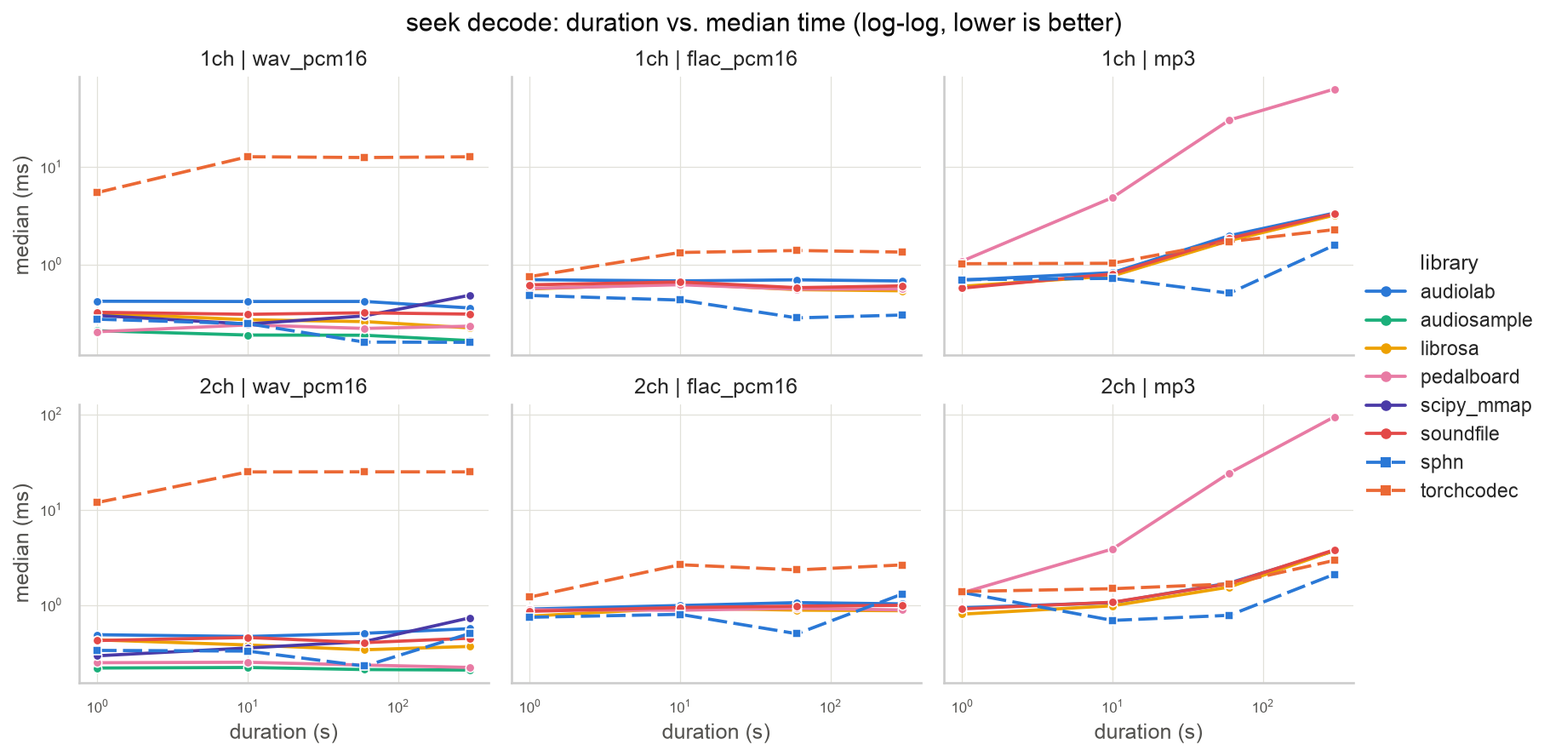
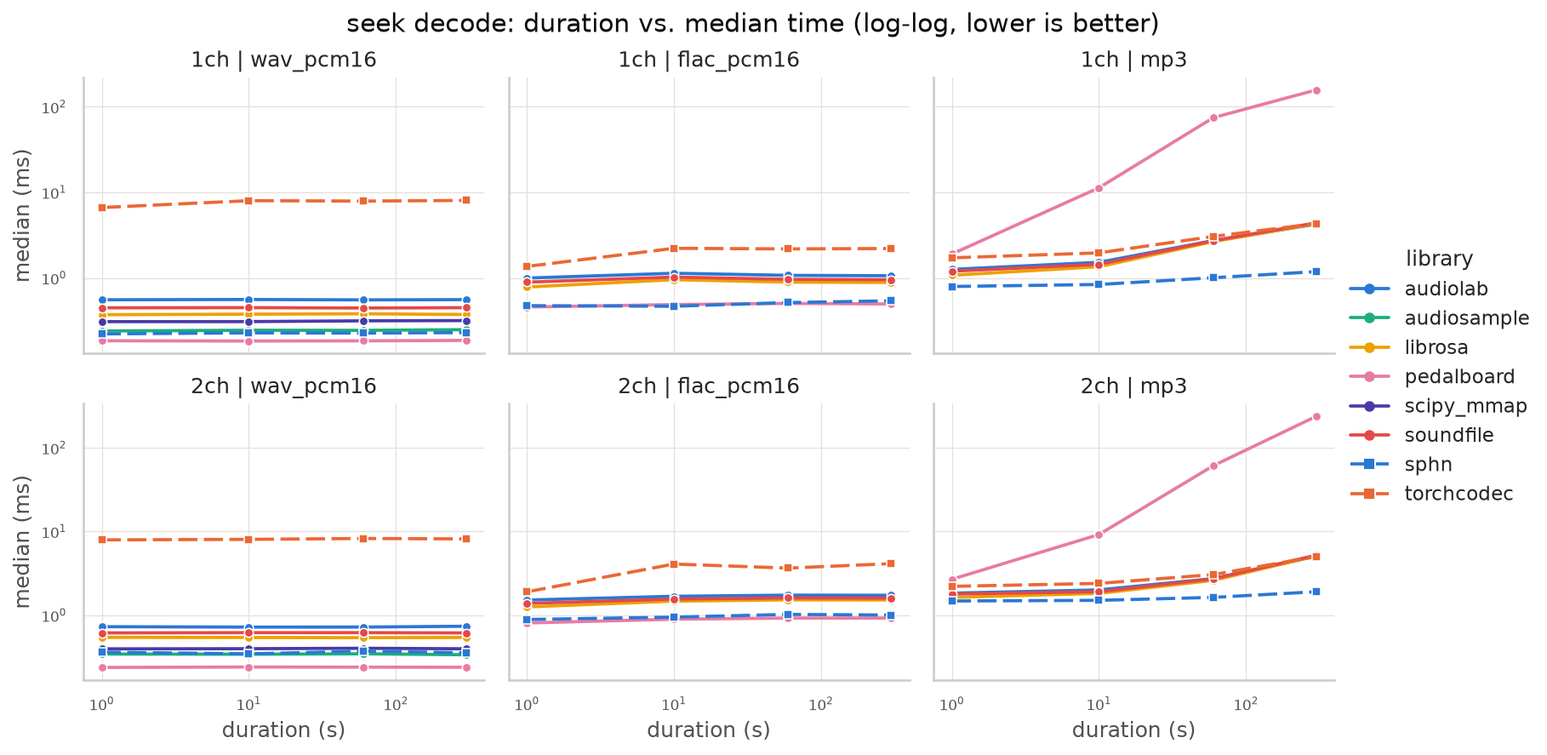
new plots

diff --git a/results/report.md b/results/report.md
@@ -6,12 +6,12 @@ Timings below are wall-clock, warm-page-cache decodes of a locally generated **s
 
 | Field | Value |
 | --- | --- |
-| OS | macOS-26.5.1-arm64-arm-64bit |
-| Machine | arm64 |
-| Python | 3.12.11 |
-| PyTorch | 2.14.0 |
-| FFmpeg | ffmpeg version 8.1.1 Copyright (c) 2000-2026 the FFmpeg developers |
-| DYLD_FALLBACK_LIBRARY_PATH | /opt/homebrew/lib |
+| OS | Linux-6.8.0-136-generic-x86_64-with-glibc2.39 |
+| Machine | x86_64 |
+| Python | 3.12.3 |
+| PyTorch | 2.14.0+cu130 |
+| FFmpeg | ffmpeg version n8.0.1-48-g0592be14ff-20260116 Copyright (c) 2000-2025 the FFmpeg developers |
+| DYLD_FALLBACK_LIBRARY_PATH | - |
 
 ## Libraries
 
@@ -23,7 +23,7 @@ Timings below are wall-clock, warm-page-cache decodes of a locally generated **s
 | scipy_mmap | 1.18.1 | yes | yes | WAV only, memory-mapped; scipy's mmap mode cannot open 24-bit ('3-byte container') WAV, which surfaces as a decode error for that subtype | - |
 | audioread | 3.1.0 | yes | no | full-file only, no seek API; audioread always yields 16-bit PCM buffers, so it cannot pass the exact gate for 24-bit or float32 WAV sources | - |
 | pedalboard | 0.9.25 | yes | yes | - | - |
-| torchcodec | 0.16.0 | yes | yes | imports cleanly even when its native FFmpeg bindings can't load; only the decode smoke test below catches that (see docs/refactor-design.md) | - |
+| torchcodec | 0.16.0+cu130 | yes | yes | imports cleanly even when its native FFmpeg bindings can't load; only the decode smoke test below catches that (see docs/refactor-design.md) | - |
 | audiolab | 0.5.2 | yes | yes | - | - |
 | audiosample | 2.2.12 | yes | yes | integer-PCM WAV only: float WAV, FLAC and MP3 go through its PyAV path, which is incompatible with PyAV 18 (Flags.FAST_SEEK) | - |
 | sphn | 0.2.1 | yes | yes | MP3 decode returns a different frame count than soundfile's reference (decoder-delay disagreement); graded by the relaxed MP3 gate | - |
@@ -34,79 +34,79 @@ Timings below are wall-clock, warm-page-cache decodes of a locally generated **s
 
 | Duration (s) | Channels | soundfile | librosa | scipy | scipy_mmap | audioread | pedalboard | torchcodec | audiolab | audiosample | sphn |
 | --- | --- | --- | --- | --- | --- | --- | --- | --- | --- | --- | --- |
-| 1 | 1 | 0.25 ms [0.21–0.28] | 0.32 ms [0.21–5.76] | 0.19 ms [0.14–0.42] | 0.33 ms [0.25–6.19] | 0.34 ms [0.25–7.13] | 0.22 ms [0.17–0.52] | 5.63 ms [5.51–5.91] | 0.46 ms [0.37–0.63] | 0.14 ms [0.12–3.45] | 0.37 ms [0.19–0.82] |
-| 1 | 2 | 0.35 ms [0.31–0.42] | 0.39 ms [0.33–0.44] | 0.25 ms [0.20–0.28] | 0.31 ms [0.26–4.72] | 0.40 ms [0.36–0.47] | 0.25 ms [0.22–0.31] | 12.24 ms [10.58–62.33] | 0.51 ms [0.44–0.57] | 0.24 ms [0.19–0.27] | 0.35 ms [0.31–0.41] |
-| 10 | 1 | 0.89 ms [0.84–1.02] | 0.93 ms [0.88–0.98] | 0.45 ms [0.41–0.77] | 0.44 ms [0.40–5.16] | 1.47 ms [1.40–1.56] | 0.52 ms [0.47–0.57] | 13.28 ms [13.14–13.74] | 1.35 ms [1.21–1.43] | 0.40 ms [0.36–0.54] | 1.71 ms [1.24–2.83] |
-| 10 | 2 | 1.89 ms [1.79–2.22] | 1.90 ms [1.82–2.22] | 1.02 ms [0.93–3.86] | 1.04 ms [0.99–6.19] | 2.73 ms [2.69–3.07] | 0.86 ms [0.79–0.94] | 26.04 ms [25.72–28.64] | 2.33 ms [2.24–2.81] | 0.94 ms [0.87–1.28] | 2.43 ms [2.23–2.49] |
-| 60 | 1 | 4.43 ms [4.36–4.66] | 4.47 ms [4.31–4.76] | 2.04 ms [1.99–6.92] | 1.65 ms [1.55–5.89] | 9.11 ms [8.03–11.15] | 2.19 ms [2.03–2.30] | 15.84 ms [15.45–19.90] | 6.33 ms [5.85–10.65] | 1.77 ms [1.74–4.16] | 6.96 ms [6.33–9.33] |
-| 60 | 2 | 9.97 ms [9.88–11.43] | 9.92 ms [9.80–12.78] | 5.31 ms [5.08–7.60] | 4.44 ms [4.34–8.97] | 15.87 ms [15.42–18.55] | 4.39 ms [4.12–4.55] | 31.15 ms [29.75–33.86] | 12.30 ms [12.08–17.59] | 5.09 ms [4.84–12.29] | 14.55 ms [12.26–54.59] |
-| 300 | 1 | 21.72 ms [20.75–24.79] | 21.15 ms [20.68–60.01] | 9.18 ms [8.81–10.64] | 7.04 ms [6.81–14.72] | 40.19 ms [39.19–44.21] | 10.27 ms [9.68–23.35] | 28.59 ms [27.98–33.72] | 27.94 ms [27.68–29.95] | 9.04 ms [8.44–40.84] | 34.56 ms [32.59–51.92] |
-| 300 | 2 | 52.07 ms [49.45–60.07] | 49.59 ms [49.06–80.34] | 25.67 ms [24.92–48.44] | 22.97 ms [21.01–29.51] | 76.94 ms [75.94–84.07] | 21.56 ms [20.79–32.14] | 52.37 ms [50.85–55.94] | 60.20 ms [58.03–124.35] | 23.95 ms [23.31–26.63] | 144.38 ms [132.87–162.02] |
+| 1 | 1 | 0.37 ms [0.36–0.41] | 0.37 ms [0.36–0.38] | 0.23 ms [0.23–0.25] | 0.30 ms [0.29–0.32] | 0.40 ms [0.38–0.41] | 0.18 ms [0.18–0.20] | 6.67 ms [6.62–6.84] | 0.58 ms [0.57–0.60] | 0.22 ms [0.22–0.23] | 0.24 ms [0.24–0.25] |
+| 1 | 2 | 0.55 ms [0.53–0.72] | 0.54 ms [0.53–0.55] | 0.33 ms [0.32–0.34] | 0.39 ms [0.38–0.40] | 0.54 ms [0.52–0.58] | 0.23 ms [0.23–0.24] | 7.91 ms [7.80–8.05] | 0.76 ms [0.72–0.79] | 0.32 ms [0.32–0.33] | 0.39 ms [0.38–0.40] |
+| 10 | 1 | 1.43 ms [1.39–1.47] | 1.44 ms [1.40–1.46] | 0.77 ms [0.76–0.81] | 0.78 ms [0.76–0.83] | 2.15 ms [2.12–2.21] | 0.65 ms [0.64–0.67] | 9.62 ms [9.52–9.72] | 2.05 ms [2.01–2.10] | 0.62 ms [0.61–0.64] | 1.66 ms [1.65–1.68] |
+| 10 | 2 | 3.29 ms [3.27–3.36] | 3.31 ms [3.21–3.36] | 1.76 ms [1.75–1.82] | 1.77 ms [1.75–1.82] | 3.73 ms [3.71–3.76] | 1.25 ms [1.24–1.28] | 11.24 ms [11.15–11.41] | 3.80 ms [3.75–3.87] | 1.58 ms [1.57–1.61] | 3.00 ms [2.99–3.10] |
+| 60 | 1 | 7.21 ms [7.14–7.29] | 7.27 ms [7.15–7.38] | 3.76 ms [3.68–3.87] | 3.66 ms [3.64–3.76] | 12.05 ms [11.97–12.12] | 3.44 ms [3.43–3.56] | 18.26 ms [18.05–18.49] | 9.59 ms [9.53–9.70] | 2.90 ms [2.89–2.95] | 9.51 ms [9.48–9.54] |
+| 60 | 2 | 18.93 ms [18.82–19.11] | 19.07 ms [18.86–19.25] | 10.96 ms [10.74–11.06] | 10.76 ms [10.46–10.82] | 22.28 ms [22.21–22.35] | 7.03 ms [6.92–7.27] | 29.04 ms [28.85–29.98] | 19.61 ms [19.44–19.75] | 8.88 ms [8.85–8.93] | 19.37 ms [19.26–19.49] |
+| 300 | 1 | 43.79 ms [43.36–44.18] | 42.94 ms [42.81–43.22] | 31.73 ms [31.67–31.86] | 28.15 ms [28.10–28.30] | 72.79 ms [72.50–73.16] | 24.62 ms [24.13–24.82] | 86.97 ms [78.33–100.90] | 53.61 ms [52.81–53.91] | 20.40 ms [19.93–20.66] | 78.93 ms [78.67–79.12] |
+| 300 | 2 | 125.49 ms [125.12–125.78] | 125.29 ms [124.78–125.97] | 108.14 ms [107.82–108.62] | 95.08 ms [94.88–97.00] | 168.24 ms [167.83–169.30] | 51.45 ms [51.32–51.58] | 154.27 ms [149.14–166.33] | 111.29 ms [110.72–111.67] | 98.58 ms [98.21–98.87] | 150.91 ms [150.53–151.27] |
 
 ## wav_pcm16 / seek
 
 | Duration (s) | Channels | soundfile | librosa | scipy | scipy_mmap | audioread | pedalboard | torchcodec | audiolab | audiosample | sphn |
 | --- | --- | --- | --- | --- | --- | --- | --- | --- | --- | --- | --- |
-| 1 | 1 | 0.32 ms [0.27–0.41] | 0.32 ms [0.25–1.80] | unsupported | 0.30 ms [0.23–9.04] | unsupported | 0.20 ms [0.16–0.26] | 5.46 ms [5.41–5.56] | 0.42 ms [0.33–2.90] | 0.21 ms [0.14–0.49] | 0.27 ms [0.24–0.40] |
-| 1 | 2 | 0.42 ms [0.34–0.48] | 0.43 ms [0.31–2.54] | unsupported | 0.29 ms [0.25–4.43] | unsupported | 0.25 ms [0.21–0.31] | 11.91 ms [11.26–16.18] | 0.49 ms [0.42–0.58] | 0.22 ms [0.18–0.28] | 0.33 ms [0.33–0.44] |
-| 10 | 1 | 0.31 ms [0.24–0.39] | 0.27 ms [0.22–0.30] | unsupported | 0.24 ms [0.23–5.32] | unsupported | 0.24 ms [0.18–0.25] | 12.73 ms [12.66–12.91] | 0.42 ms [0.35–3.00] | 0.19 ms [0.14–0.23] | 0.25 ms [0.23–0.32] |
-| 10 | 2 | 0.46 ms [0.42–0.91] | 0.38 ms [0.33–0.44] | unsupported | 0.35 ms [0.26–0.57] | unsupported | 0.25 ms [0.20–0.30] | 24.93 ms [24.66–28.50] | 0.47 ms [0.39–0.55] | 0.22 ms [0.19–0.27] | 0.33 ms [0.31–0.36] |
-| 60 | 1 | 0.32 ms [0.28–0.37] | 0.26 ms [0.22–0.34] | unsupported | 0.30 ms [0.23–4.62] | unsupported | 0.22 ms [0.19–0.30] | 12.50 ms [12.42–12.84] | 0.42 ms [0.34–0.71] | 0.19 ms [0.14–0.48] | 0.16 ms [0.13–0.19] |
-| 60 | 2 | 0.40 ms [0.34–0.46] | 0.34 ms [0.31–0.71] | unsupported | 0.41 ms [0.39–4.99] | unsupported | 0.23 ms [0.21–0.29] | 24.99 ms [24.71–26.78] | 0.51 ms [0.44–0.60] | 0.21 ms [0.19–0.26] | 0.23 ms [0.19–0.86] |
-| 300 | 1 | 0.31 ms [0.27–0.67] | 0.22 ms [0.21–0.28] | unsupported | 0.48 ms [0.40–2.68] | unsupported | 0.23 ms [0.20–0.34] | 12.72 ms [12.59–13.24] | 0.36 ms [0.31–0.74] | 0.17 ms [0.14–0.21] | 0.16 ms [0.13–0.30] |
-| 300 | 2 | 0.45 ms [0.42–0.55] | 0.37 ms [0.33–0.42] | unsupported | 0.73 ms [0.63–4.32] | unsupported | 0.22 ms [0.20–0.28] | 24.96 ms [24.55–29.08] | 0.57 ms [0.50–1.69] | 0.21 ms [0.19–0.25] | 0.50 ms [0.42–0.55] |
+| 1 | 1 | 0.45 ms [0.43–0.56] | 0.37 ms [0.35–0.39] | unsupported | 0.31 ms [0.30–0.31] | unsupported | 0.18 ms [0.18–0.19] | 6.65 ms [6.52–6.74] | 0.56 ms [0.54–0.57] | 0.24 ms [0.24–0.24] | 0.22 ms [0.22–0.23] |
+| 1 | 2 | 0.61 ms [0.60–0.64] | 0.54 ms [0.54–0.56] | unsupported | 0.40 ms [0.39–0.42] | unsupported | 0.24 ms [0.23–0.25] | 7.95 ms [7.85–8.14] | 0.73 ms [0.72–0.77] | 0.34 ms [0.33–0.35] | 0.36 ms [0.35–0.41] |
+| 10 | 1 | 0.45 ms [0.43–0.54] | 0.38 ms [0.36–0.38] | unsupported | 0.31 ms [0.31–0.33] | unsupported | 0.18 ms [0.18–0.19] | 8.00 ms [7.87–8.12] | 0.56 ms [0.55–0.58] | 0.24 ms [0.24–0.25] | 0.23 ms [0.23–0.24] |
+| 10 | 2 | 0.62 ms [0.60–0.64] | 0.54 ms [0.53–0.56] | unsupported | 0.40 ms [0.38–0.42] | unsupported | 0.24 ms [0.24–0.25] | 8.07 ms [7.97–8.16] | 0.72 ms [0.71–0.74] | 0.34 ms [0.33–0.35] | 0.35 ms [0.34–0.35] |
+| 60 | 1 | 0.44 ms [0.44–0.59] | 0.38 ms [0.36–0.39] | unsupported | 0.32 ms [0.30–0.33] | unsupported | 0.18 ms [0.18–0.19] | 7.91 ms [7.81–8.03] | 0.55 ms [0.55–0.56] | 0.24 ms [0.24–0.25] | 0.23 ms [0.22–0.23] |
+| 60 | 2 | 0.62 ms [0.59–0.63] | 0.54 ms [0.53–0.55] | unsupported | 0.40 ms [0.39–0.41] | unsupported | 0.24 ms [0.24–0.25] | 8.26 ms [8.20–8.32] | 0.72 ms [0.70–0.76] | 0.35 ms [0.34–0.35] | 0.37 ms [0.36–0.44] |
+| 300 | 1 | 0.45 ms [0.44–0.47] | 0.37 ms [0.36–0.39] | unsupported | 0.32 ms [0.31–0.33] | unsupported | 0.19 ms [0.18–0.19] | 8.05 ms [7.99–8.11] | 0.56 ms [0.53–0.60] | 0.25 ms [0.25–0.27] | 0.23 ms [0.22–0.24] |
+| 300 | 2 | 0.61 ms [0.61–0.63] | 0.54 ms [0.54–0.56] | unsupported | 0.40 ms [0.39–0.42] | unsupported | 0.24 ms [0.23–0.24] | 8.17 ms [8.04–8.23] | 0.74 ms [0.70–0.75] | 0.34 ms [0.32–0.35] | 0.36 ms [0.35–0.36] |
 
 ## flac_pcm16 / full
 
 | Duration (s) | Channels | soundfile | librosa | scipy | scipy_mmap | audioread | pedalboard | torchcodec | audiolab | audiosample | sphn |
 | --- | --- | --- | --- | --- | --- | --- | --- | --- | --- | --- | --- |
-| 1 | 1 | 0.49 ms [0.47–0.59] | 0.57 ms [0.52–0.88] | unsupported | unsupported | 1.62 ms [1.57–11.13] | 0.57 ms [0.50–3.29] | 0.81 ms [0.77–0.93] | 0.68 ms [0.64–0.76] | unsupported | 0.44 ms [0.39–0.55] |
-| 1 | 2 | 0.79 ms [0.76–0.94] | 0.80 ms [0.77–1.02] | unsupported | unsupported | 2.09 ms [2.01–2.22] | 0.87 ms [0.78–1.20] | 1.40 ms [1.27–1.71] | 0.92 ms [0.87–6.04] | unsupported | 0.75 ms [0.67–0.87] |
-| 10 | 1 | 3.39 ms [3.35–3.48] | 3.36 ms [3.31–3.42] | unsupported | unsupported | 5.58 ms [5.48–6.32] | 2.81 ms [2.71–2.91] | 3.89 ms [3.80–4.04] | 3.80 ms [3.75–3.91] | unsupported | 3.41 ms [2.98–4.03] |
-| 10 | 2 | 5.93 ms [5.83–6.37] | 5.92 ms [5.82–6.35] | unsupported | unsupported | 10.38 ms [10.21–11.97] | 5.56 ms [5.48–5.85] | 6.96 ms [6.82–7.63] | 6.48 ms [6.27–9.38] | unsupported | 5.46 ms [5.39–6.04] |
-| 60 | 1 | 19.28 ms [19.20–19.74] | 19.24 ms [19.17–19.63] | unsupported | unsupported | 27.78 ms [27.24–30.16] | 15.08 ms [14.90–15.54] | 20.72 ms [20.58–22.51] | 21.00 ms [20.89–21.53] | unsupported | 11.45 ms [9.94–18.88] |
-| 60 | 2 | 34.22 ms [33.91–36.96] | 33.93 ms [33.70–57.90] | unsupported | unsupported | 56.94 ms [55.78–60.13] | 31.80 ms [31.68–60.10] | 39.57 ms [38.65–46.05] | 37.34 ms [36.50–45.90] | unsupported | 23.76 ms [21.36–35.99] |
-| 300 | 1 | 96.45 ms [95.28–173.07] | 95.54 ms [95.35–173.85] | unsupported | unsupported | 132.58 ms [130.75–138.88] | 74.34 ms [73.88–80.10] | 102.54 ms [100.46–111.60] | 105.38 ms [103.47–159.16] | unsupported | 61.62 ms [60.16–69.05] |
-| 300 | 2 | 173.89 ms [168.36–251.41] | 172.43 ms [168.80–213.40] | unsupported | unsupported | 279.09 ms [273.45–328.69] | 158.40 ms [156.45–234.69] | 196.09 ms [192.39–211.79] | 183.75 ms [179.62–189.35] | unsupported | 323.73 ms [229.49–406.67] |
+| 1 | 1 | 0.81 ms [0.81–0.84] | 0.78 ms [0.77–0.79] | unsupported | unsupported | 18.02 ms [17.12–18.80] | 0.45 ms [0.45–0.46] | 1.39 ms [1.35–1.41] | 1.03 ms [1.02–1.04] | unsupported | 0.50 ms [0.49–0.51] |
+| 1 | 2 | 1.31 ms [1.30–1.60] | 1.26 ms [1.25–1.27] | unsupported | unsupported | 18.50 ms [17.86–19.70] | 0.80 ms [0.79–0.81] | 1.92 ms [1.87–1.93] | 1.55 ms [1.51–1.56] | unsupported | 0.92 ms [0.90–0.92] |
+| 10 | 1 | 5.36 ms [5.33–5.41] | 5.36 ms [5.33–5.40] | unsupported | unsupported | 21.54 ms [20.66–22.48] | 3.31 ms [3.27–3.36] | 7.04 ms [7.02–7.11] | 6.06 ms [6.03–6.09] | unsupported | 3.86 ms [3.84–3.88] |
+| 10 | 2 | 10.52 ms [10.47–10.79] | 10.45 ms [10.42–10.51] | unsupported | unsupported | 25.75 ms [24.49–26.48] | 6.89 ms [6.87–7.01] | 12.09 ms [12.05–12.17] | 11.09 ms [11.07–11.11] | unsupported | 7.68 ms [7.67–7.88] |
+| 60 | 1 | 30.72 ms [30.66–30.98] | 30.73 ms [30.64–31.02] | unsupported | unsupported | 34.82 ms [33.19–37.59] | 19.39 ms [19.30–19.50] | 37.67 ms [37.54–37.86] | 33.43 ms [33.28–33.50] | unsupported | 22.41 ms [22.36–22.50] |
+| 60 | 2 | 62.08 ms [61.94–62.21] | 62.04 ms [61.89–62.28] | unsupported | unsupported | 51.00 ms [49.76–52.40] | 40.82 ms [40.63–41.10] | 67.39 ms [67.28–67.69] | 63.23 ms [63.16–63.49] | unsupported | 47.25 ms [47.21–47.37] |
+| 300 | 1 | 161.29 ms [160.01–161.59] | 160.71 ms [159.83–161.84] | unsupported | unsupported | 109.47 ms [107.12–110.97] | 104.69 ms [104.43–105.07] | 197.89 ms [197.21–198.05] | 172.76 ms [172.60–173.32] | unsupported | 144.83 ms [144.76–145.35] |
+| 300 | 2 | 340.71 ms [340.22–341.04] | 340.72 ms [340.24–341.14] | unsupported | unsupported | 230.96 ms [228.12–233.29] | 221.15 ms [220.64–221.62] | 364.86 ms [364.24–365.40] | 328.66 ms [328.45–329.13] | unsupported | 291.70 ms [291.45–292.51] |
 
 ## flac_pcm16 / seek
 
 | Duration (s) | Channels | soundfile | librosa | scipy | scipy_mmap | audioread | pedalboard | torchcodec | audiolab | audiosample | sphn |
 | --- | --- | --- | --- | --- | --- | --- | --- | --- | --- | --- | --- |
-| 1 | 1 | 0.62 ms [0.55–0.91] | 0.56 ms [0.47–0.87] | unsupported | unsupported | unsupported | 0.57 ms [0.52–4.58] | 0.75 ms [0.67–0.85] | 0.70 ms [0.61–10.68] | unsupported | 0.48 ms [0.43–0.69] |
-| 1 | 2 | 0.86 ms [0.78–1.52] | 0.77 ms [0.74–0.82] | unsupported | unsupported | unsupported | 0.89 ms [0.80–0.94] | 1.21 ms [1.13–1.82] | 0.91 ms [0.87–0.97] | unsupported | 0.75 ms [0.67–1.07] |
-| 10 | 1 | 0.66 ms [0.57–0.81] | 0.63 ms [0.59–0.69] | unsupported | unsupported | unsupported | 0.62 ms [0.57–0.82] | 1.33 ms [1.25–1.42] | 0.68 ms [0.66–0.74] | unsupported | 0.43 ms [0.39–0.80] |
-| 10 | 2 | 0.94 ms [0.85–1.05] | 0.93 ms [0.87–1.03] | unsupported | unsupported | unsupported | 0.88 ms [0.82–0.91] | 2.65 ms [2.56–2.83] | 0.99 ms [0.96–1.08] | unsupported | 0.80 ms [0.72–0.96] |
-| 60 | 1 | 0.58 ms [0.55–1.41] | 0.55 ms [0.52–0.60] | unsupported | unsupported | unsupported | 0.56 ms [0.54–0.62] | 1.39 ms [1.24–1.58] | 0.69 ms [0.63–1.06] | unsupported | 0.28 ms [0.27–0.32] |
-| 60 | 2 | 0.97 ms [0.93–1.06] | 0.88 ms [0.85–1.23] | unsupported | unsupported | unsupported | 0.93 ms [0.86–2.53] | 2.34 ms [2.21–4.57] | 1.06 ms [0.98–1.15] | unsupported | 0.50 ms [0.49–0.71] |
-| 300 | 1 | 0.60 ms [0.56–1.11] | 0.54 ms [0.49–0.61] | unsupported | unsupported | unsupported | 0.56 ms [0.50–0.70] | 1.34 ms [1.28–1.51] | 0.68 ms [0.61–0.89] | unsupported | 0.30 ms [0.28–0.56] |
-| 300 | 2 | 0.99 ms [0.95–1.11] | 0.87 ms [0.85–0.93] | unsupported | unsupported | unsupported | 0.89 ms [0.84–3.53] | 2.64 ms [2.57–3.00] | 1.03 ms [0.98–1.53] | unsupported | 1.30 ms [0.96–1.54] |
+| 1 | 1 | 0.89 ms [0.88–0.92] | 0.78 ms [0.77–0.88] | unsupported | unsupported | unsupported | 0.46 ms [0.45–0.46] | 1.36 ms [1.35–1.47] | 1.00 ms [0.97–1.01] | unsupported | 0.47 ms [0.47–0.49] |
+| 1 | 2 | 1.39 ms [1.36–1.50] | 1.26 ms [1.24–1.26] | unsupported | unsupported | unsupported | 0.81 ms [0.80–0.82] | 1.90 ms [1.86–1.93] | 1.52 ms [1.49–1.53] | unsupported | 0.89 ms [0.88–0.90] |
+| 10 | 1 | 1.02 ms [1.01–1.03] | 0.95 ms [0.94–0.96] | unsupported | unsupported | unsupported | 0.49 ms [0.48–0.50] | 2.22 ms [2.18–2.23] | 1.13 ms [1.11–1.14] | unsupported | 0.47 ms [0.46–0.47] |
+| 10 | 2 | 1.56 ms [1.55–1.58] | 1.47 ms [1.47–1.49] | unsupported | unsupported | unsupported | 0.90 ms [0.88–0.90] | 4.09 ms [4.04–4.12] | 1.69 ms [1.65–1.71] | unsupported | 0.95 ms [0.95–0.96] |
+| 60 | 1 | 0.96 ms [0.95–0.99] | 0.89 ms [0.88–0.90] | unsupported | unsupported | unsupported | 0.50 ms [0.50–0.54] | 2.18 ms [2.13–2.20] | 1.07 ms [1.07–1.09] | unsupported | 0.52 ms [0.51–0.53] |
+| 60 | 2 | 1.61 ms [1.58–1.62] | 1.53 ms [1.51–1.55] | unsupported | unsupported | unsupported | 0.93 ms [0.91–0.94] | 3.66 ms [3.60–3.70] | 1.74 ms [1.69–1.75] | unsupported | 1.02 ms [1.01–1.04] |
+| 300 | 1 | 0.95 ms [0.94–0.98] | 0.88 ms [0.88–0.90] | unsupported | unsupported | unsupported | 0.50 ms [0.49–0.50] | 2.21 ms [2.16–2.25] | 1.06 ms [1.04–1.09] | unsupported | 0.54 ms [0.53–0.57] |
+| 300 | 2 | 1.60 ms [1.60–1.64] | 1.52 ms [1.50–1.53] | unsupported | unsupported | unsupported | 0.93 ms [0.92–0.94] | 4.14 ms [4.12–4.16] | 1.73 ms [1.69–1.74] | unsupported | 1.01 ms [1.00–1.02] |
 
 ## mp3 / full
 
 | Duration (s) | Channels | soundfile | librosa | scipy | scipy_mmap | audioread | pedalboard | torchcodec | audiolab | audiosample | sphn |
 | --- | --- | --- | --- | --- | --- | --- | --- | --- | --- | --- | --- |
-| 1 | 1 | 0.50 ms [0.48–0.61] | 0.54 ms [0.49–0.61] | unsupported | unsupported | 1.47 ms [1.30–1.85] | 1.08 ms [0.99–1.13] | 1.10 ms [1.01–1.16] | 0.65 ms [0.60–0.81] | unsupported | 0.94 ms [0.71–1.33] |
-| 1 | 2 | 0.80 ms [0.77–1.85] | 0.82 ms [0.77–0.92] | unsupported | unsupported | 2.04 ms [1.97–2.14] | 1.35 ms [1.30–1.41] | 1.54 ms [1.40–2.36] | 1.00 ms [0.92–1.50] | unsupported | 1.25 ms [1.22–1.68] |
-| 10 | 1 | 3.33 ms [3.24–5.60] | 3.29 ms [3.21–4.09] | unsupported | unsupported | 8.27 ms [8.13–10.57] | 7.21 ms [7.10–8.06] | 5.08 ms [5.01–5.19] | 3.93 ms [3.84–4.38] | unsupported | 5.67 ms [4.75–7.88] |
-| 10 | 2 | 6.73 ms [6.09–80.64] | 6.01 ms [5.91–6.71] | unsupported | unsupported | 13.74 ms [13.45–17.92] | 9.98 ms [9.94–10.17] | 7.81 ms [7.68–10.18] | 6.77 ms [6.62–7.59] | unsupported | 5.89 ms [5.85–14.59] |
-| 60 | 1 | 18.35 ms [18.24–21.20] | 18.30 ms [18.21–18.73] | unsupported | unsupported | 46.71 ms [46.20–57.23] | 41.29 ms [41.14–45.07] | 28.73 ms [27.63–63.74] | 21.75 ms [21.24–23.99] | unsupported | 22.27 ms [20.34–26.86] |
-| 60 | 2 | 34.38 ms [33.87–35.21] | 33.92 ms [33.87–35.62] | unsupported | unsupported | 78.10 ms [76.90–85.78] | 58.34 ms [58.08–61.55] | 43.96 ms [43.25–48.91] | 39.45 ms [38.08–41.77] | unsupported | 38.73 ms [37.66–58.05] |
-| 300 | 1 | 91.22 ms [90.60–98.24] | 91.39 ms [90.47–100.08] | unsupported | unsupported | 229.67 ms [226.52–259.55] | 206.26 ms [204.01–291.00] | 138.99 ms [135.15–149.50] | 105.92 ms [104.92–265.71] | unsupported | 103.61 ms [101.26–128.33] |
-| 300 | 2 | 176.60 ms [169.37–194.68] | 171.90 ms [169.10–184.41] | unsupported | unsupported | 387.96 ms [383.58–412.56] | 294.20 ms [288.69–367.46] | 221.85 ms [215.43–245.76] | 190.97 ms [187.48–206.25] | unsupported | 397.54 ms [345.70–456.88] |
+| 1 | 1 | 1.11 ms [1.08–1.17] | 1.07 ms [1.07–1.09] | unsupported | unsupported | 18.65 ms [17.41–19.00] | 1.93 ms [1.90–1.95] | 1.76 ms [1.75–1.79] | 1.29 ms [1.27–1.57] | unsupported | 0.83 ms [0.82–0.85] |
+| 1 | 2 | 1.71 ms [1.65–1.71] | 1.65 ms [1.63–1.68] | unsupported | unsupported | 18.33 ms [17.51–19.35] | 2.73 ms [2.70–2.74] | 2.25 ms [2.21–2.28] | 1.87 ms [1.85–1.90] | unsupported | 1.52 ms [1.52–1.53] |
+| 10 | 1 | 7.89 ms [7.86–7.99] | 7.89 ms [7.87–7.93] | unsupported | unsupported | 26.95 ms [25.97–28.42] | 17.35 ms [17.20–17.45] | 8.99 ms [8.95–9.06] | 8.94 ms [8.92–9.04] | unsupported | 6.88 ms [6.85–6.98] |
+| 10 | 2 | 13.39 ms [13.37–13.54] | 13.40 ms [13.37–13.61] | unsupported | unsupported | 32.31 ms [30.84–32.71] | 24.92 ms [24.82–25.02] | 13.24 ms [13.20–14.48] | 14.71 ms [14.68–14.76] | unsupported | 13.53 ms [13.48–13.74] |
+| 60 | 1 | 45.73 ms [45.60–45.96] | 45.67 ms [45.49–45.76] | unsupported | unsupported | 72.06 ms [70.70–72.61] | 103.24 ms [103.10–103.48] | 49.01 ms [48.90–49.17] | 50.92 ms [50.87–50.97] | unsupported | 40.13 ms [40.04–40.28] |
+| 60 | 2 | 79.22 ms [78.99–79.53] | 79.36 ms [79.06–79.58] | unsupported | unsupported | 104.64 ms [103.13–104.91] | 148.27 ms [147.72–148.76] | 74.37 ms [74.20–74.60] | 84.77 ms [84.69–84.84] | unsupported | 81.88 ms [81.77–82.01] |
+| 300 | 1 | 232.99 ms [232.87–233.62] | 233.72 ms [233.29–234.29] | unsupported | unsupported | 290.92 ms [288.32–293.63] | 523.47 ms [522.73–524.69] | 253.09 ms [252.96–253.50] | 260.21 ms [259.81–260.49] | unsupported | 233.49 ms [233.19–233.72] |
+| 300 | 2 | 422.50 ms [422.09–422.68] | 422.33 ms [422.02–422.78] | unsupported | unsupported | 498.98 ms [495.49–502.48] | 752.33 ms [751.73–752.98] | 398.54 ms [397.73–399.14] | 436.92 ms [436.46–437.40] | unsupported | 465.29 ms [464.65–466.73] |
 
 ## mp3 / seek
 
 | Duration (s) | Channels | soundfile | librosa | scipy | scipy_mmap | audioread | pedalboard | torchcodec | audiolab | audiosample | sphn |
 | --- | --- | --- | --- | --- | --- | --- | --- | --- | --- | --- | --- |
-| 1 | 1 | 0.57 ms [0.56–0.67] | 0.60 ms [0.53–0.69] | unsupported | unsupported | unsupported | 1.08 ms [0.97–1.98] | 1.02 ms [0.93–1.21] | 0.69 ms [0.63–1.06] | unsupported | 0.70 ms [0.69–0.98] |
-| 1 | 2 | 0.91 ms [0.83–12.50] | 0.80 ms [0.79–0.93] | unsupported | unsupported | unsupported | 1.34 ms [1.27–1.42] | 1.39 ms [1.26–1.98] | 0.94 ms [0.91–1.03] | unsupported | 1.36 ms [1.20–1.67] |
-| 10 | 1 | 0.80 ms [0.71–0.91] | 0.76 ms [0.67–0.85] | unsupported | unsupported | unsupported | 4.85 ms [4.72–4.99] | 1.03 ms [1.01–1.55] | 0.82 ms [0.78–0.94] | unsupported | 0.72 ms [0.65–0.99] |
-| 10 | 2 | 1.07 ms [0.97–10.40] | 0.98 ms [0.87–1.39] | unsupported | unsupported | unsupported | 3.88 ms [3.81–4.03] | 1.48 ms [1.30–2.01] | 1.06 ms [1.02–1.12] | unsupported | 0.69 ms [0.68–0.73] |
-| 60 | 1 | 1.85 ms [1.80–2.56] | 1.75 ms [1.72–1.79] | unsupported | unsupported | unsupported | 30.31 ms [29.99–37.81] | 1.71 ms [1.56–2.25] | 1.97 ms [1.90–2.12] | unsupported | 0.51 ms [0.48–0.53] |
-| 60 | 2 | 1.68 ms [1.53–2.03] | 1.55 ms [1.49–1.63] | unsupported | unsupported | unsupported | 24.32 ms [24.22–26.09] | 1.67 ms [1.61–1.99] | 1.71 ms [1.65–4.64] | unsupported | 0.78 ms [0.75–0.86] |
-| 300 | 1 | 3.31 ms [3.24–6.90] | 3.20 ms [3.13–5.76] | unsupported | unsupported | unsupported | 63.05 ms [62.82–198.47] | 2.27 ms [2.20–2.53] | 3.36 ms [3.21–8.97] | unsupported | 1.58 ms [0.87–1.81] |
-| 300 | 2 | 3.80 ms [3.64–9.99] | 3.73 ms [3.64–9.08] | unsupported | unsupported | unsupported | 94.51 ms [93.55–103.53] | 2.94 ms [2.80–3.59] | 3.70 ms [3.66–4.24] | unsupported | 2.10 ms [1.66–17.03] |
+| 1 | 1 | 1.20 ms [1.18–1.21] | 1.07 ms [1.07–1.12] | unsupported | unsupported | unsupported | 1.90 ms [1.88–1.97] | 1.72 ms [1.69–1.75] | 1.26 ms [1.24–1.28] | unsupported | 0.79 ms [0.79–0.83] |
+| 1 | 2 | 1.79 ms [1.77–2.07] | 1.64 ms [1.62–1.66] | unsupported | unsupported | unsupported | 2.69 ms [2.67–2.76] | 2.21 ms [2.17–2.24] | 1.84 ms [1.81–1.85] | unsupported | 1.48 ms [1.47–1.50] |
+| 10 | 1 | 1.44 ms [1.42–1.51] | 1.35 ms [1.34–1.36] | unsupported | unsupported | unsupported | 11.31 ms [11.28–11.48] | 1.96 ms [1.90–1.99] | 1.52 ms [1.50–1.54] | unsupported | 0.84 ms [0.82–0.91] |
+| 10 | 2 | 1.91 ms [1.90–1.93] | 1.83 ms [1.80–1.85] | unsupported | unsupported | unsupported | 9.21 ms [9.15–9.23] | 2.40 ms [2.38–2.42] | 2.01 ms [1.99–2.04] | unsupported | 1.51 ms [1.48–1.56] |
+| 60 | 1 | 2.72 ms [2.70–2.74] | 2.66 ms [2.64–2.69] | unsupported | unsupported | unsupported | 74.73 ms [74.58–74.97] | 3.06 ms [2.98–3.09] | 2.73 ms [2.70–2.80] | unsupported | 1.01 ms [0.99–1.03] |
+| 60 | 2 | 2.72 ms [2.68–2.79] | 2.61 ms [2.59–2.63] | unsupported | unsupported | unsupported | 61.24 ms [61.02–61.40] | 3.06 ms [2.97–3.17] | 2.74 ms [2.72–2.78] | unsupported | 1.64 ms [1.63–1.65] |
+| 300 | 1 | 4.40 ms [4.38–4.45] | 4.29 ms [4.24–4.32] | unsupported | unsupported | unsupported | 157.52 ms [157.22–157.83] | 4.32 ms [4.25–4.45] | 4.25 ms [4.18–4.36] | unsupported | 1.18 ms [1.18–1.21] |
+| 300 | 2 | 5.22 ms [5.20–5.23] | 5.12 ms [5.10–5.14] | unsupported | unsupported | unsupported | 237.59 ms [236.92–237.88] | 5.02 ms [4.95–5.13] | 5.08 ms [5.01–5.10] | unsupported | 1.91 ms [1.90–1.98] |
 
 ## Unavailable and incorrect libraries
 
@@ -114,4 +114,4 @@ Every probed library was available and passed the correctness gate.
 
 ## Measurement noise
 
-Across 352 `ok` measurements, the observed dispersion `IQR / median` ranges from 0.4% to 1395.2%, with a median of 6.3%. That is the measurement-noise floor of this run: differences between libraries, formats, or durations smaller than this floor are noise, not rankings. The interquartile range is reported rather than max-min because the full range grows with the trial count, which would make runs using different `--repeat` values incomparable.
+Across 352 `ok` measurements, the observed dispersion `IQR / median` ranges from 0.0% to 23.2%, with a median of 0.8%. That is the measurement-noise floor of this run: differences between libraries, formats, or durations smaller than this floor are noise, not rankings. The interquartile range is reported rather than max-min because the full range grows with the trial count, which would make runs using different `--repeat` values incomparable.
